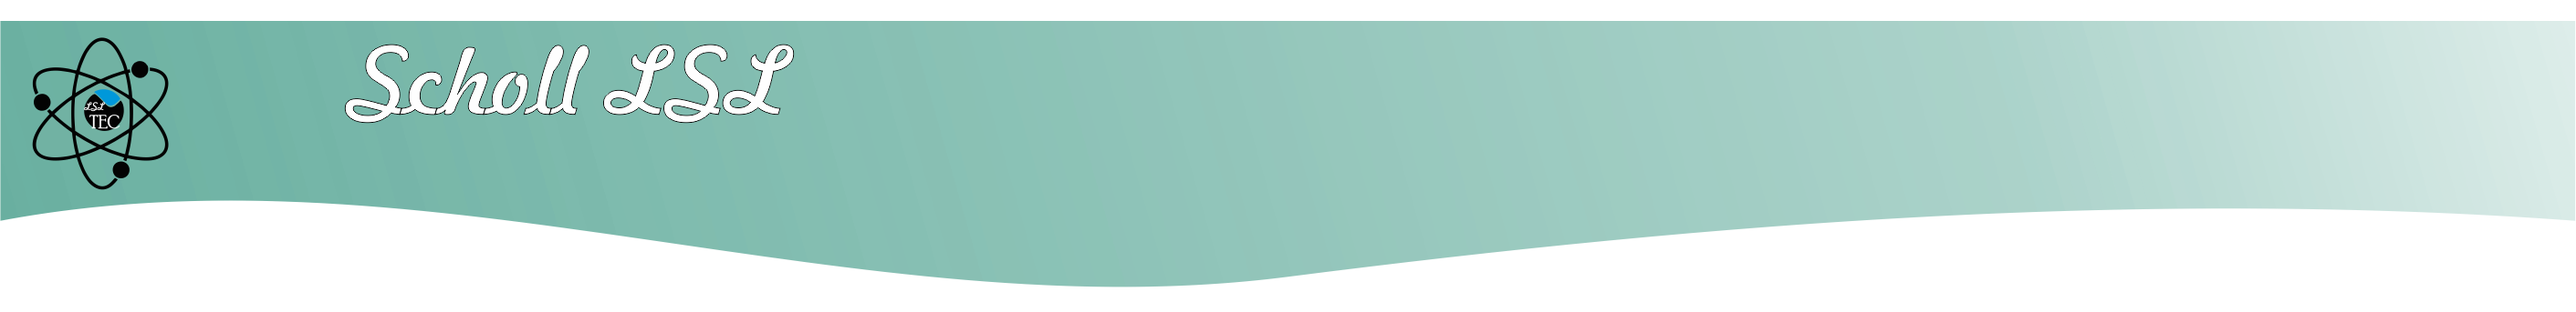
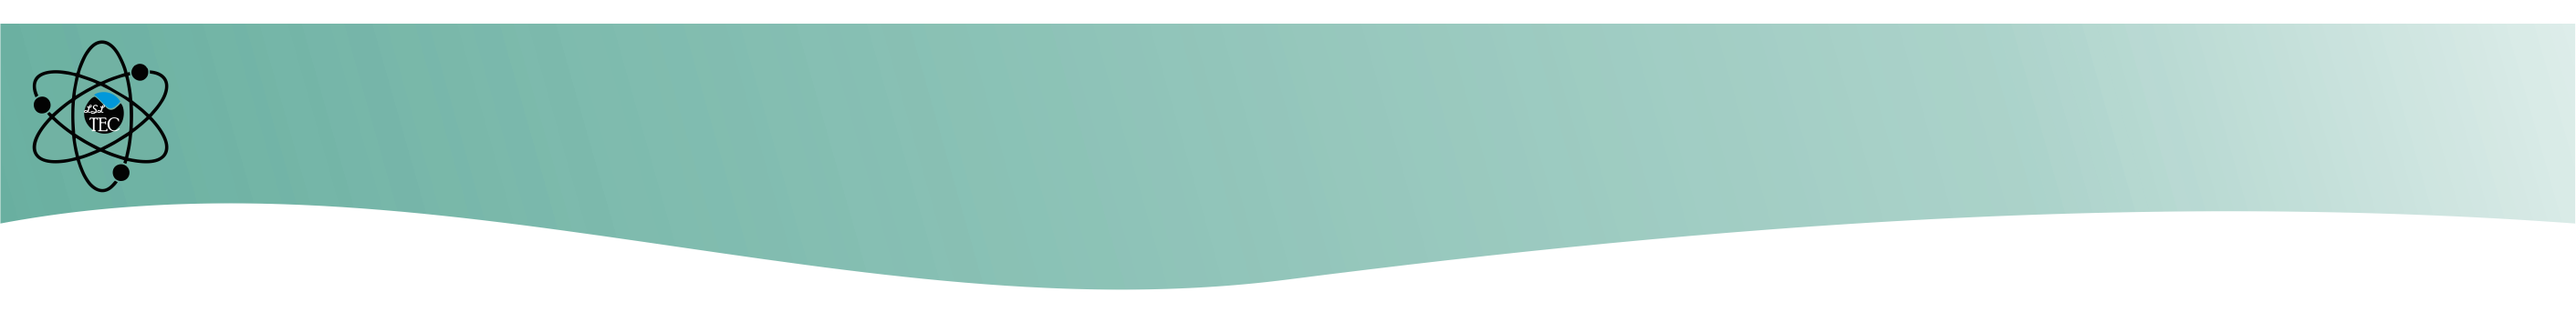
up

diff --git a/index.html b/index.html
@@ -18,15 +18,18 @@
 <!--Input Folha de Estilo em Cascatas-->
 <link rel="stylesheet" type="text/css" href="site.css">
 <!--Input Folha de Estilo em Cascatas-->
-
-
-
 </head>
 <body>
-      <div id="cabesalho_img">
-            <img src="img/cabesalho.png">            
-        </div>
-        <h1>Scholl LSL</h1>  
+    <div id="cabesalho_name">
+        <p>SchollLSL<p> 
+    </div>
+    <div id="cabesalho_img">
+        <img src="img/cabesalho.png">            
+    </div>
+    <div id="eslogam">
+        <p>Exempol e excelemcia como essemcia<p>
+    </div>
+         
 
 </body>
 </html>

diff --git a/site.css b/site.css
@@ -1,0 +1,18 @@
+#cabesalho_img{margin: -25px 0px;}
+
+#cabesalho_name{
+    font-family: freehand521 bt;
+    font-size: 550%;    
+    padding: 45%;
+    margin: -40% 10% 0px 0px ;
+    left: -8%;
+    position: absolute;
+    color: #ffffff; }
+body{
+    background: black;
+}
+#eslogam{
+    font-family: freehand521 bt;
+    text-align: center;
+    font-size: 300%;
+    color: #ffffff; }
